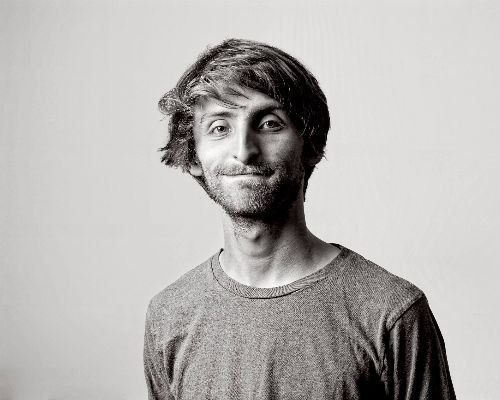
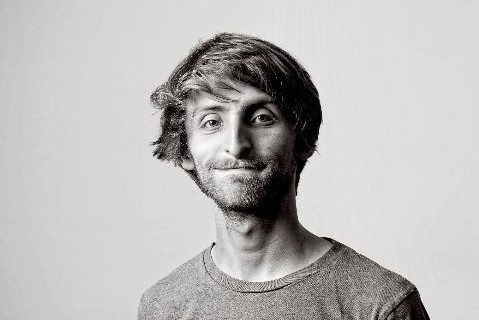
Crop images to better fit in circles on about page

Changed region(s): [[0.263, 0.0938, 0.9353, 1.0], [0.0, 0.9062, 0.0292, 1.0]]

diff --git a/content/about/jessicabutton.md b/content/about/jessicabutton.md
@@ -1,7 +1,7 @@
 ---
 title: Jessica Button
 weight: 16
-image: /img/jpg/about-jess.JPG
+image: /img/jpg/about-jess.jpg
 position: Talent Manager
 email: jessica.button@jetstack.io
 ---
